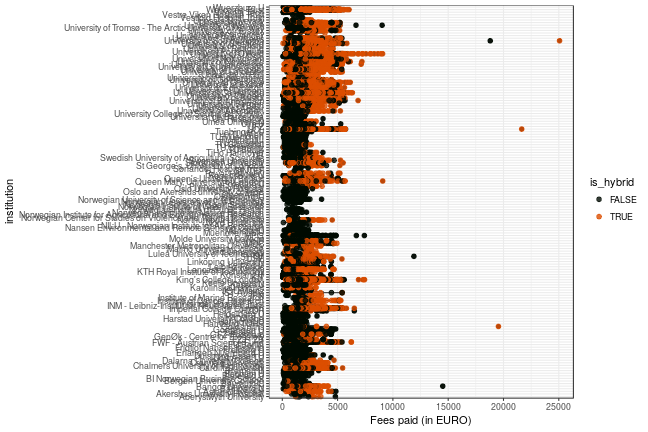
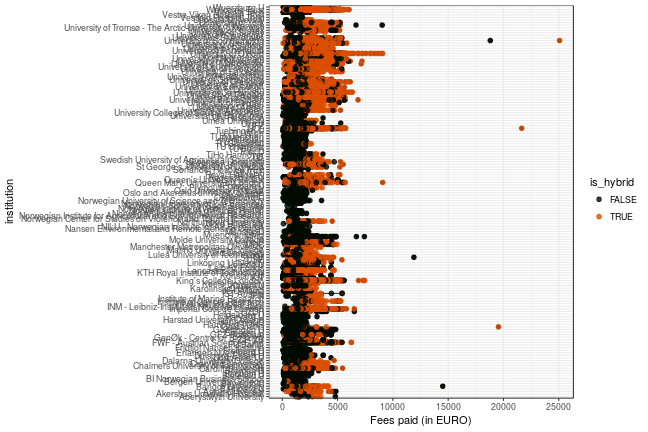
post: trier u joins openapc

Changed region(s): [[0.0309, 0.0301, 0.5864, 0.9028]]

diff --git a/about.md b/about.md
@@ -213,13 +213,13 @@ Jisc Collections released data on APC payments made by UK higher education insti
 
 Information on both open access journal articles and open access publication of articles in toll-access journals ("hybrid") are provided.
 
-In total,  92 120 553 € for  47 847 articles were paid by the participating unviversities. Average  fee is 1 925.3 € and the median 1 738 €.
+In total,  92 161 124 € for  47 870 articles were paid by the participating unviversities. Average  fee is 1 925.2 € and the median 1 737 €.
 
 ### Open Access Journals
 
 
 
-At the moment, the dataset releases information on 26 834 articles in open access journals which charge publication fees. Total expenditure amounts to  39 732 544 €. Average  fee is 1 480.7 € and the median 1 396 €.
+At the moment, the dataset releases information on 26 856 articles in open access journals which charge publication fees. Total expenditure amounts to  39 770 497 €. Average  fee is 1 480.9 € and the median 1 396 €.
 
 View dataset on [GitHub](https://github.com/OpenAPC/openapc-de/blob/master/data/apc_de.csv).
 
@@ -231,7 +231,7 @@ View dataset on [GitHub](https://github.com/OpenAPC/openapc-de/blob/master/data/
 |Aston University                                                |       24|            47,259|         1,969|  1,654|
 |Bamberg U                                                       |       36|            39,450|         1,096|  1,116|
 |Bangor University                                               |       20|            46,857|         2,343|  1,638|
-|Bayreuth U                                                      |      128|           148,565|         1,161|  1,202|
+|Bayreuth U                                                      |      128|           148,228|         1,158|  1,202|
 |Bergen University College                                       |       13|            19,984|         1,537|  1,713|
 |BI Norwegian Business School                                    |        4|             2,761|           690|    724|
 |Bielefeld U                                                     |      348|           437,899|         1,258|  1,276|
@@ -242,7 +242,7 @@ View dataset on [GitHub](https://github.com/OpenAPC/openapc-de/blob/master/data/
 |Cranfield University                                            |       10|            14,348|         1,435|  1,530|
 |Dalarna University College                                      |       27|            38,434|         1,423|  1,698|
 |Dortmund TU                                                     |       38|            39,184|         1,031|    962|
-|Duisburg-Essen U                                                |      229|           309,648|         1,352|  1,276|
+|Duisburg-Essen U                                                |      236|           322,744|         1,368|  1,277|
 |Erlangen Nuernberg U                                            |      538|           755,645|         1,405|  1,454|
 |Freiburg U                                                      |      623|           871,696|         1,399|  1,449|
 |Fridtjof Nansen Institute                                       |        4|             5,062|         1,265|  1,303|
@@ -286,7 +286,7 @@ View dataset on [GitHub](https://github.com/OpenAPC/openapc-de/blob/master/data/
 |Malmö University College                                        |        4|             4,007|         1,002|    890|
 |Manchester Metropolitan University                              |       10|            14,997|         1,500|  1,421|
 |MDC                                                             |       69|           137,459|         1,992|  1,483|
-|Milano U                                                        |      118|           178,878|         1,516|  1,495|
+|Milano U                                                        |      121|           185,356|         1,532|  1,495|
 |Molde University College                                        |        3|             1,876|           625|    584|
 |MPG                                                             |    3,458|         4,712,028|         1,363|  1,203|
 |Muenchen LMU                                                    |      407|           533,749|         1,311|  1,342|
@@ -321,6 +321,7 @@ View dataset on [GitHub](https://github.com/OpenAPC/openapc-de/blob/master/data/
 |Swedish University of Agricultural Sciences                     |      343|           449,661|         1,311|  1,326|
 |TIB                                                             |        1|             1,619|         1,619|  1,619|
 |TiHo Hannover                                                   |      137|           194,193|         1,417|  1,416|
+|Trier U                                                         |       12|            18,716|         1,560|  1,572|
 |TU Berlin                                                       |       30|            34,171|         1,139|  1,189|
 |TU Chemnitz                                                     |       55|            60,695|         1,104|  1,374|
 |TU Clausthal                                                    |       12|            11,023|           919|    918|
@@ -383,7 +384,7 @@ View dataset on [GitHub](https://github.com/OpenAPC/openapc-de/blob/master/data/
 
 
 In many toll-access journals some of the articles are open access after a fee has been paid. This model is often called "hybrid open access".
-The dataset covers 21 013 hybrid open access articles. Total expenditure amounts to  52 388 009 €. Average  fee is 2 493.1 € and the median 2 446 €.
+The dataset covers 21 014 hybrid open access articles. Total expenditure amounts to  52 390 627 €. Average  fee is 2 493.1 € and the median 2 446 €.
 
 The following institutions have contributed its expenditures for hybrid open access.
 
@@ -399,7 +400,7 @@ The following institutions have contributed its expenditures for hybrid open acc
 |Cranfield University                        |       66|           186,639|         2,828|  2,901|
 |Dalarna University College                  |       13|            33,705|         2,593|  2,690|
 |Dortmund TU                                 |        1|             1,581|         1,581|  1,581|
-|Duisburg-Essen U                            |        7|            18,549|         2,650|  2,618|
+|Duisburg-Essen U                            |        8|            21,167|         2,646|  2,618|
 |Erlangen Nuernberg U                        |        1|             1,638|         1,638|  1,638|
 |FU Berlin                                   |        1|             1,500|         1,500|  1,500|
 |FWF - Austrian Science Fund                 |    3,188|         7,778,679|         2,440|  2,599|
@@ -555,7 +556,7 @@ For data enrichment, sample visualisations and explorations we build on the work
 
 ## Contributors
 
-Jens Harald Aasheim, Benjamin Ahlborn, Chelsea Ambler, Magdalena Andrae, Jochen Apel, Hans-Georg Becker, Roland Bertelmann, Daniel Beucke, Peter Blume, Ute Blumtritt, Kim Braun, Christoph Broschinski, Dorothea Busjahn, Pablo de Castro, Amanda Cullin, Patrick Danowski, Gernot Deinzer, Julia Dickel, Andrea Dorner, Karin Eckert, Clemens Engelhardt, Inken Feldsien-Sudhaus, Fabian Franke, Claudia Frick, Agnes Geißelmann, Kai Karin Geschuhn, Steffi Grimm, Uli Hahn, Kristina Hanig, Dominik Hell, Ulrich Herb, Ute Holzwarth, Christie Hurrell, Doris Jaeger, Najko Jahn, Alexandra Jobmann, Andreas Kennecke, Robert Kiley, Stephanie Kroiss, Gerrit Kuehle, Ignasi Labastida i Juan, Stuart Lawson, Kathrin Lucht-Roussel, Frank Lützenkirchen, Anna Marini, Anja Oberländer, Vitali Peil, Dirk Pieper, Tobias Pohlmann, Markus Putnings, Annette Scheiner, Michael Schlachter, Birgit Schlegel, Adriana Sikora, Matti Stöhr, Edith Reschke, Katharina Rieck, Florian Ruckelshausen, Ilka Rudolf, Marco Tullney, Astrid Vieler, Viola Voß, Marco Winkler, Sabine Witt, Philip Young
+Jens Harald Aasheim, Benjamin Ahlborn, Chelsea Ambler, Magdalena Andrae, Jochen Apel, Hans-Georg Becker, Roland Bertelmann, Daniel Beucke, Peter Blume, Ute Blumtritt, Kim Braun, Christoph Broschinski, Dorothea Busjahn, Pablo de Castro, Amanda Cullin, Patrick Danowski, Gernot Deinzer, Julia Dickel, Andrea Dorner, Karin Eckert, Clemens Engelhardt, Inken Feldsien-Sudhaus, Fabian Franke, Claudia Frick, Agnes Geißelmann, Kai Karin Geschuhn, Steffi Grimm, Uli Hahn, Kristina Hanig, Dominik Hell, Ulrich Herb, Ute Holzwarth, Christie Hurrell, Doris Jaeger, Najko Jahn, Alexandra Jobmann, Andreas Kennecke, Robert Kiley, Stephanie Kroiss, Gerrit Kuehle, Ignasi Labastida i Juan, Stuart Lawson, Kathrin Lucht-Roussel, Frank Lützenkirchen, Anna Marini, Anja Oberländer, Vitali Peil, Dirk Pieper, Tobias Pohlmann, Markus Putnings, Annette Scheiner, Michael Schlachter, Birgit Schlegel, Adriana Sikora, Susanne Stemmler, Matti Stöhr, Edith Reschke, Katharina Rieck, Florian Ruckelshausen, Ilka Rudolf, Marco Tullney, Astrid Vieler, Viola Voß, Marco Winkler, Sabine Witt, Philip Young
 
 ## Contact
 

diff --git a/_posts/2018-02-14-trier.md b/_posts/2018-02-14-trier.md
@@ -1,0 +1,51 @@
+---
+layout:     post
+author:     Christoph Broschinski
+author_lnk: https://github.com/cbroschinski
+title:      University of Trier joins OpenAPC
+date:       2018-02-14 08:00:00
+summary:    
+categories: [general, openAPC]
+comments: true
+---
+
+
+
+
+We welcome the [University of Trier](https://www.uni-trier.de) as new contributing institution!
+
+The [Trier University Library](https://www.uni-trier.de/index.php?id=678&L=2) is in charge of the [University's Open Access Publishing Fund](https://www.uni-trier.de/index.php?id=60802), which is supported under the [DFG's Open Access Publishing Programme](http://www.dfg.de/en/research_funding/programmes/infrastructure/lis/funding_opportunities/open_access/).
+
+Contact Person is [Jörg Röpke](mailto:openaccess@uni-trier.de).
+
+
+## Cost data
+
+
+
+The first dataset provided by the University of Trier contains publication fees for 12 articles. Total expenditure amounts to 18 716€ and the average fee is 1 560€.
+
+The following table shows the payments the Trier University Library has made to publishers in 2017.
+
+
+|                                          | Articles| Fees paid in EURO| Mean Fee paid|
+|:-----------------------------------------|--------:|-----------------:|-------------:|
+|MDPI AG                                   |        3|              4334|          1445|
+|Frontiers Media SA                        |        2|              3115|          1557|
+|Public Library of Science (PLoS)          |        2|              3399|          1700|
+|Springer Nature                           |        2|              3487|          1744|
+|Ovid Technologies (Wolters Kluwer Health) |        1|              1623|          1623|
+|Schweizerbart                             |        1|              1449|          1449|
+|Wiley-Blackwell                           |        1|              1309|          1309|
+
+## Overview
+
+A detail analysis of the contributed data provides the following overview:
+
+### Fees paid per publisher (in EURO)
+
+![plot of chunk tree_trier_2018_02_14_full](/figure/tree_trier_2018_02_14_full-1.png)
+
+###  Average costs per publisher (in EURO)
+
+![plot of chunk box_trier_2018_02_14_publisher_full](/figure/box_trier_2018_02_14_publisher_full-1.png)
